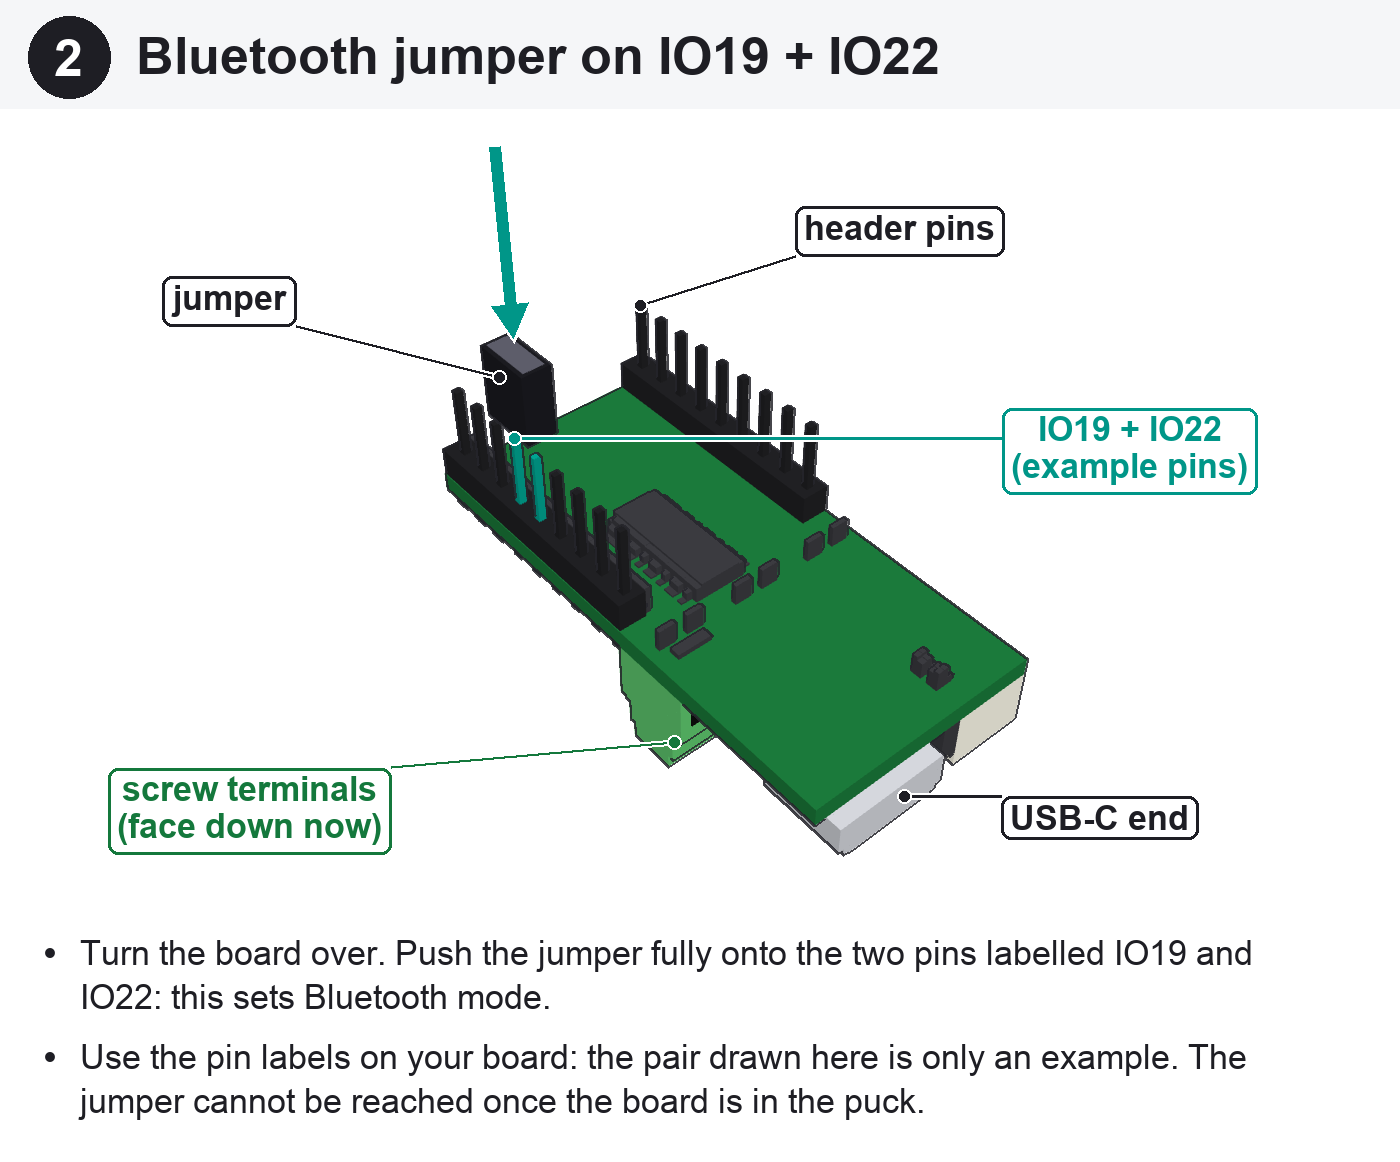
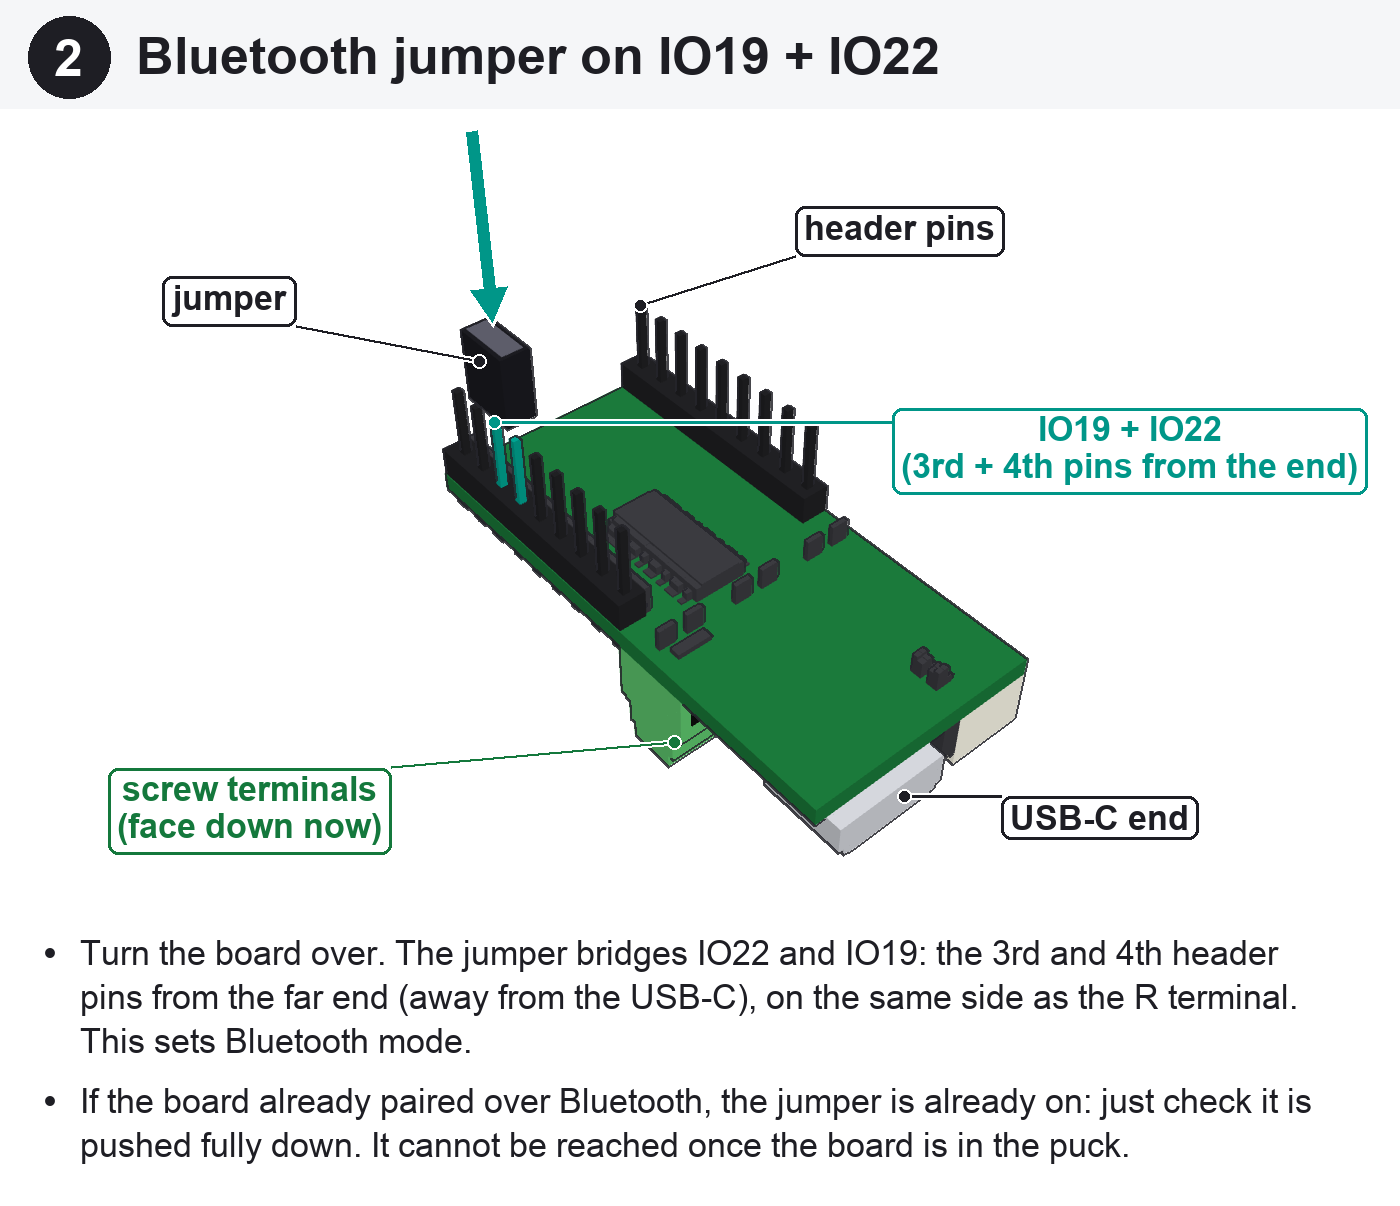
puck assembly: jumper on the real IO19/IO22 pins (TITAN QuickStart p.10)

diff --git a/hardware/titan-puck/assembly/build.py b/hardware/titan-puck/assembly/build.py
@@ -273,7 +273,7 @@ def board_part(jumper=None, hl_pins=()):
     return p
 
 
-JUMPER_PINS = (PIN_ROWS_X[1], 21.40 + 2.54 * 4, 21.40 + 2.54 * 5)  # an example pair only (read the board's labels)
+JUMPER_PINS = (PIN_ROWS_X[1], 21.40 + 2.54 * 5, 21.40 + 2.54 * 6)  # IO19, IO22: R-terminal side, 4th and 3rd pins from the far end (TITAN QuickStart p.10)
 
 
 def jumper_part(px, py_mid, z_top):
@@ -887,15 +887,15 @@ def step02():
     tip = Rf @ np.array([jx, jy, -10.18]) + tf
     ink.arrow(tip + lift + (0, 0, 16), tip + lift + (0, 0, 1.6), RGB["act"], w=12)
     ink.label(Rf @ np.array([jx, jy + 2.5, -7.0]) + tf + lift, "jumper", (230, 180), INK)
-    ink.label(Rf @ np.array([jx, JUMPER_PINS[2], -10.18]) + tf, "IO19 + IO22\n(example pins)", (1130, 330),
+    ink.label(Rf @ np.array([jx, JUMPER_PINS[2], -10.18]) + tf, "IO19 + IO22\n(3rd + 4th pins from the end)", (1130, 330),
               RGB["act"])
     ink.label(Rf @ np.array([PIN_ROWS_X[0], 41.72, -10.18]) + tf, "header pins", (900, 110), INK)
     ink.label(Rf @ np.array([13.25, -1.3, 1.6]) + tf, "USB-C end", (1100, 700), INK)
     ink.label(Rf @ np.array([19.8, 15.0, 6.0]) + tf, "screw terminals\n(face down now)", (250, 690), RGB["board"])
-    notes = ["Turn the board over. Push the jumper fully onto the two pins labelled IO19 and IO22: this sets "
-             "Bluetooth mode.",
-             "Use the pin labels on your board: the pair drawn here is only an example. The jumper cannot be reached "
-             "once the board is in the puck."]
+    notes = ["Turn the board over. The jumper bridges IO22 and IO19: the 3rd and 4th header pins from the far "
+             "end (away from the USB-C), on the same side as the R terminal. This sets Bluetooth mode.",
+             "If the board already paired over Bluetooth, the jumper is already on: just check it is pushed fully "
+             "down. It cannot be reached once the board is in the puck."]
     return save(page(2, "Bluetooth jumper on IO19 + IO22", [img], notes), "step02.png")
 
 

diff --git a/hardware/titan-puck/assembly/ASSEMBLY.md b/hardware/titan-puck/assembly/ASSEMBLY.md
@@ -19,8 +19,9 @@ Base, lid, TITAN Core, the three motors (LF, MF, LFi), a jumper, a USB-C cable, 
 
 ![Step 2](step02.png)
 
-Turn the board over and push the jumper onto the two header pins labelled IO19 and IO22. The pair in the picture is only
-an example, so use the labels on your board. You cannot reach the jumper once the board is in.
+Turn the board over. The jumper bridges IO22 and IO19: the 3rd and 4th header pins from the far end (away from the
+USB-C), on the same side as the R terminal (TITAN QuickStart Guide, page 10). If the board already paired over Bluetooth, the
+jumper is already on, so just check it is pushed fully down. You cannot reach it once the board is in.
 
 ## 3. Wire the motors to the screw terminals
 
